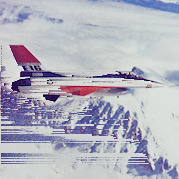
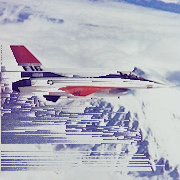
example: up images to 180px, cleanup markup, use pseudo elements as gridlines

diff --git a/example/index.html b/example/index.html
@@ -14,27 +14,27 @@
     <figure>
       <ul>
         <li>
-          <img src="assets/5.3.01.jpg" width="179" height="179" alt="man" />
+          <img src="assets/5.3.01.jpg" height="180" width="180" alt="man" />
         </li>
         <li>
-          <img src="assets/4.2.05.jpg" width="179" height="179" alt="airplane F-16" />
+          <img src="assets/4.2.05.jpg" height="180" width="180" alt="airplane F-16" />
         </li>
         <li>
-          <img src="assets/4.2.06.jpg" width="179" height="179" alt="sailboat on lake" />
+          <img src="assets/4.2.06.jpg" height="180" width="180" alt="sailboat on lake" />
         </li>
         <li>
-          <canvas width="179" height="179">
-            <img src="assets/5.3.01.png" width="179" height="179" alt="assets/5.3.01.jpg" />
+          <canvas height="180" width="180">
+            <img src="assets/5.3.01.png" height="180" width="180" alt="assets/5.3.01.jpg" />
           </canvas>
         </li>
         <li>
-          <canvas width="179" height="179">
-            <img src="assets/4.2.05.png" width="179" height="179" alt="assets/4.2.05.jpg" />
+          <canvas height="180" width="180">
+            <img src="assets/4.2.05.png" height="180" width="180" alt="assets/4.2.05.jpg" />
           </canvas>
         </li>
         <li>
-          <canvas width="179" height="179">
-            <img src="assets/4.2.06.png" width="179" height="179" alt="assets/4.2.06.jpg" />
+          <canvas height="180" width="180">
+            <img src="assets/4.2.06.png" height="180" width="180" alt="assets/4.2.06.jpg" />
           </canvas>
         </li>
       </ul>

diff --git a/example/index.css b/example/index.css
@@ -35,6 +35,17 @@ figure {
   top: 50%;
 }
 
+figure::before {
+  background: #fff;
+  content: "";
+  height: 1px;
+  left: 0;
+  position: absolute;
+  right: 0;
+  top: 180px;
+  z-index: 101;
+}
+
 figcaption {
   margin: 0.5rem 0 0;
 }
@@ -44,20 +55,33 @@ ul {
   list-style: none;
   margin: 0;
   padding: 0;
+  position: relative;
   width: 540px;
+}
+
+ul::before,
+ul::after {
+  background: #fff;
+  content: "";
+  height: 100%;
+  position: absolute;
+  width: 1px;
+  z-index: 101;
+}
+
+ul::before {
+  left: 180px;
+}
+
+ul::after {
+  right: 180px;
 }
 
 li {
   background: #bbb;
-  border: 1px solid #fff;
-  border-width: 0 0 1px 0;
   display: block;
   float: left;
   position: relative;
-}
-
-li:nth-child(3n + 2) {
-  border-width: 0 1px 1px;
 }
 
 canvas,
